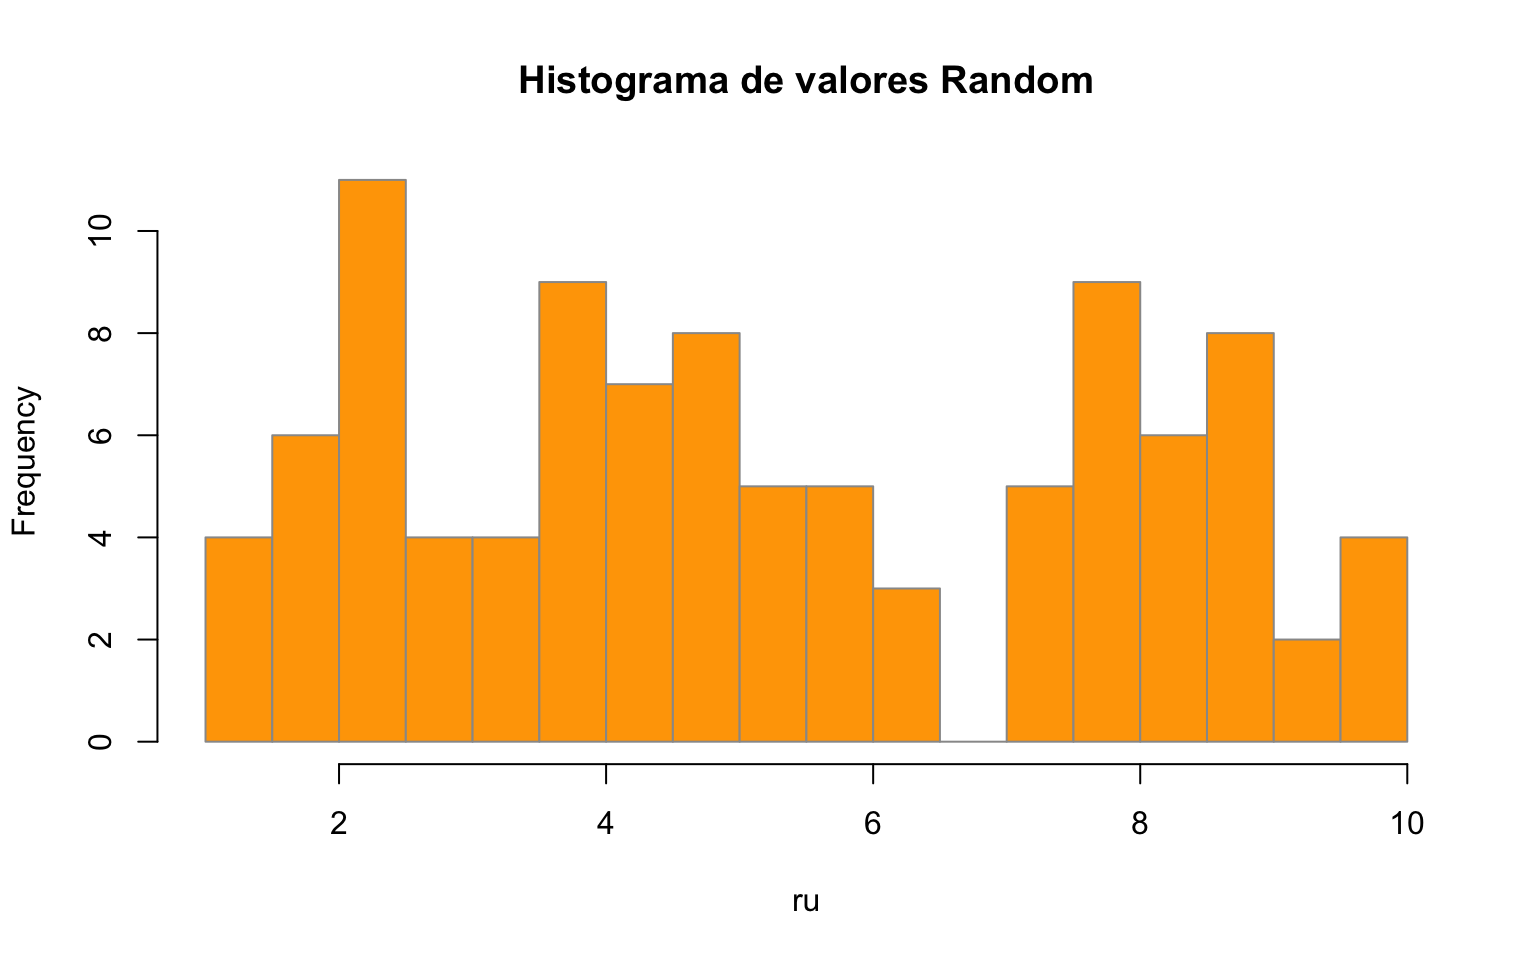
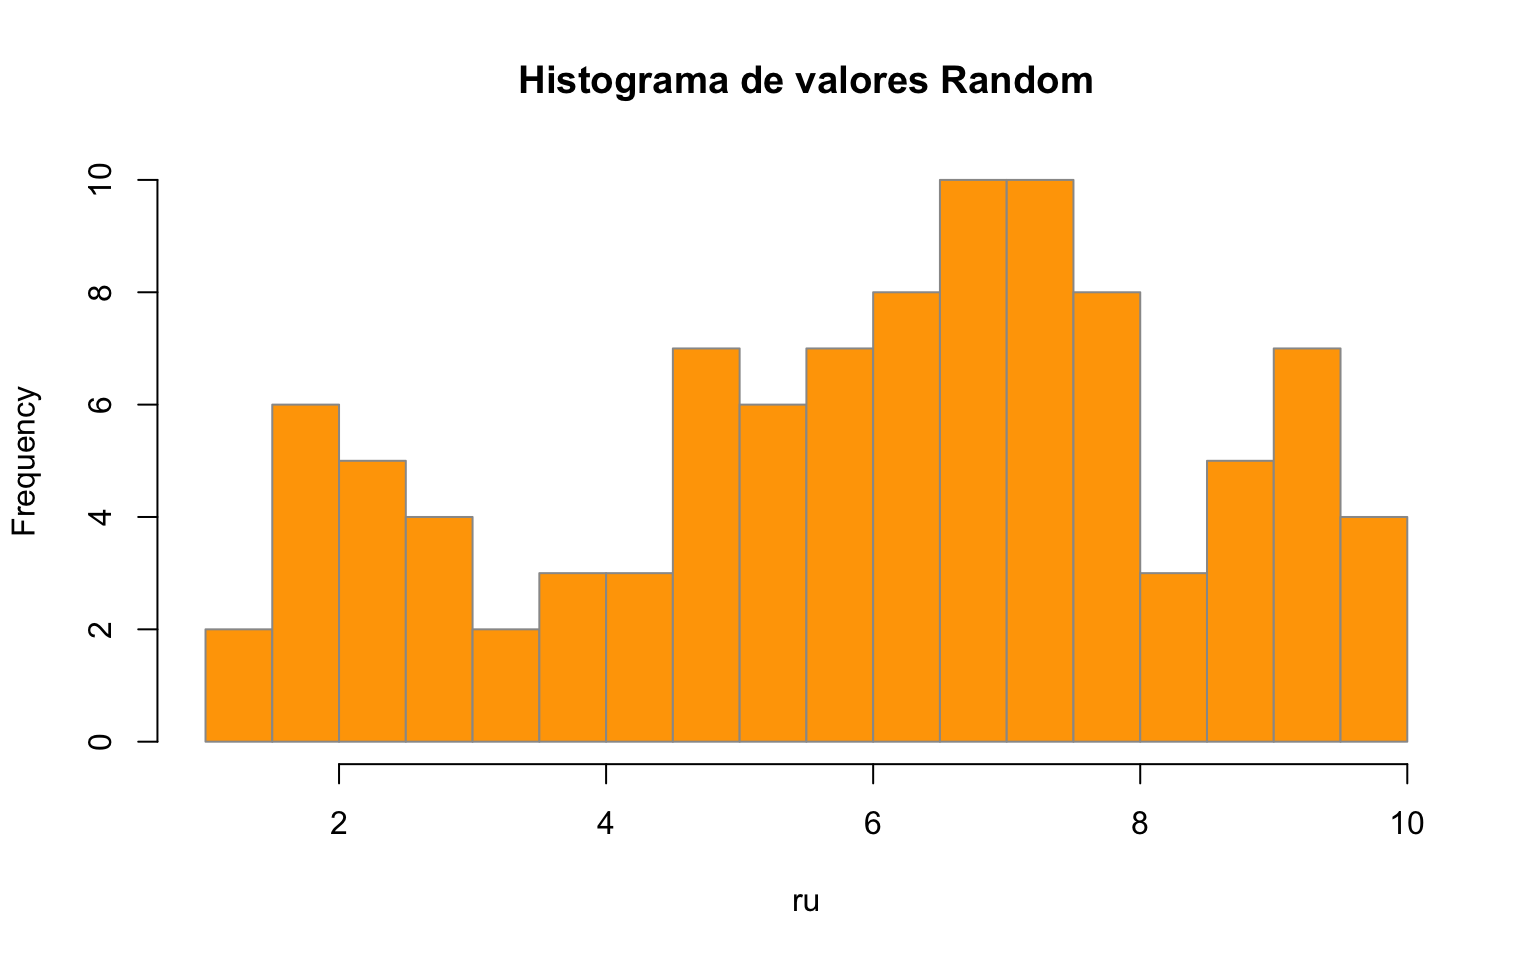
update trabajo final fecha

diff --git a/_book/variables.html b/_book/variables.html
@@ -352,19 +352,19 @@ pre > code.sourceCode > span > a:first-child::before { text-decoration: underlin
 <div class="sourceCode cell-code" id="cb7"><pre class="sourceCode r code-with-copy"><code class="sourceCode r"><span id="cb7-1"><a href="#cb7-1" aria-hidden="true" tabindex="-1"></a>ru <span class="ot">&lt;-</span> <span class="fu">runif</span>(<span class="at">n =</span> <span class="dv">100</span>, <span class="at">min =</span> <span class="dv">1</span>, <span class="at">max =</span> <span class="dv">10</span>)</span>
 <span id="cb7-2"><a href="#cb7-2" aria-hidden="true" tabindex="-1"></a>ru</span></code><button title="Copy to Clipboard" class="code-copy-button"><i class="bi"></i></button></pre></div>
 <div class="cell-output cell-output-stdout">
-<pre><code>  [1] 7.036234 9.243024 7.133478 1.766613 8.106630 2.042511 2.047008 3.323497
-  [9] 8.865860 7.565938 7.243830 4.850270 1.507733 9.795584 4.837169 1.663607
- [17] 1.837592 7.929734 4.764149 2.532050 5.782555 4.182746 3.926821 7.777502
- [25] 8.498820 4.527492 3.591414 2.844672 4.337210 2.409326 8.407363 2.299991
- [33] 5.649941 4.036811 7.866155 8.323130 5.006632 7.564334 2.236192 3.727890
- [41] 1.005859 7.404628 4.596157 3.974629 7.795068 4.332433 5.306452 7.759783
- [49] 5.485336 8.489113 4.270811 9.573991 6.219315 4.099027 1.229683 5.760607
- [57] 8.666951 1.627061 2.918833 4.501783 1.326727 5.135413 9.936188 3.382128
- [65] 7.856508 2.296568 2.250079 2.324497 7.190054 6.165270 8.895057 7.739206
- [73] 2.189778 3.923684 8.620634 5.948848 3.633492 4.371817 3.553421 2.347481
- [81] 8.950063 6.430518 4.966085 1.312576 4.864195 5.116707 8.637606 8.211899
- [89] 8.809229 3.648042 9.050573 3.635366 3.157152 9.697948 1.623003 3.432729
- [97] 8.685574 2.567681 5.539499 2.262169</code></pre>
+<pre><code>  [1] 5.338864 7.965505 5.555209 1.171336 9.924713 5.116322 7.327843 7.157532
+  [9] 7.372481 7.458054 3.398526 8.744960 6.744452 7.175254 1.696205 6.265629
+ [17] 6.401110 5.008025 9.196594 3.597694 1.135785 9.975499 7.637275 4.725310
+ [25] 5.327323 3.511883 6.971379 1.750685 6.437239 4.039406 3.272506 4.403949
+ [33] 7.306202 9.979623 5.824466 4.901542 9.208956 2.971587 4.723780 8.762502
+ [41] 5.851631 8.488495 4.580058 9.471197 7.931617 5.228607 6.953828 1.605926
+ [49] 6.503783 9.461868 1.635085 8.392721 6.044952 6.851237 9.191957 6.588429
+ [57] 5.637289 7.645685 1.838917 6.327909 2.230111 3.701837 2.841723 2.890537
+ [65] 6.829644 2.244390 8.464696 9.309839 9.695430 8.513708 5.962522 5.080628
+ [73] 9.494621 6.070666 4.964344 4.726949 6.135313 6.198034 5.706008 8.542112
+ [81] 7.443353 7.537884 1.646324 7.792190 4.728722 6.954975 2.499542 7.585686
+ [89] 6.993446 7.387564 6.624410 7.039647 2.272156 2.350864 8.954357 4.292787
+ [97] 7.797105 2.683254 5.870696 7.255326</code></pre>
 </div>
 </div>
 <div class="cell" data-layout-align="center">
@@ -383,7 +383,7 @@ pre > code.sourceCode > span > a:first-child::before { text-decoration: underlin
 <div class="cell">
 <div class="sourceCode cell-code" id="cb10"><pre class="sourceCode r code-with-copy"><code class="sourceCode r"><span id="cb10-1"><a href="#cb10-1" aria-hidden="true" tabindex="-1"></a><span class="fu">sample.int</span>(<span class="at">n =</span> <span class="dv">6</span>, <span class="at">size =</span> <span class="dv">10</span>, <span class="at">replace =</span> T)</span></code><button title="Copy to Clipboard" class="code-copy-button"><i class="bi"></i></button></pre></div>
 <div class="cell-output cell-output-stdout">
-<pre><code> [1] 2 1 1 6 1 2 5 2 1 6</code></pre>
+<pre><code> [1] 3 2 5 2 4 2 4 3 2 2</code></pre>
 </div>
 </div>
 </section>

diff --git a/_book/control_r.html b/_book/control_r.html
@@ -439,10 +439,10 @@ pre > code.sourceCode > span > a:first-child::before { text-decoration: underlin
 <span id="cb17-6"><a href="#cb17-6" aria-hidden="true" tabindex="-1"></a>  <span class="fu">print</span>(promedio)</span>
 <span id="cb17-7"><a href="#cb17-7" aria-hidden="true" tabindex="-1"></a>}</span></code><button title="Copy to Clipboard" class="code-copy-button"><i class="bi"></i></button></pre></div>
 <div class="cell-output cell-output-stdout">
-<pre><code>[1] -0.2198357
-[1] 0.1306057
-[1] 0.09021248
-[1] 0.3283138</code></pre>
+<pre><code>[1] 0.5329839
+[1] 0.4379189
+[1] -0.2857855
+[1] -0.2862991</code></pre>
 </div>
 </div>
 </section>

diff --git a/_book/trabajo_final.html b/_book/trabajo_final.html
@@ -239,7 +239,7 @@ ul.task-list li input[type="checkbox"] {
 <header id="title-block-header" class="quarto-title-block default">
 <div class="quarto-title">
 <h1 class="title">Trabajo Final</h1>
-<p class="subtitle lead">Evolución y distribución de un fenómeno</p>
+<p class="subtitle lead">Evolución y distribución de un fenómeno delictual</p>
 </div>
 
 
